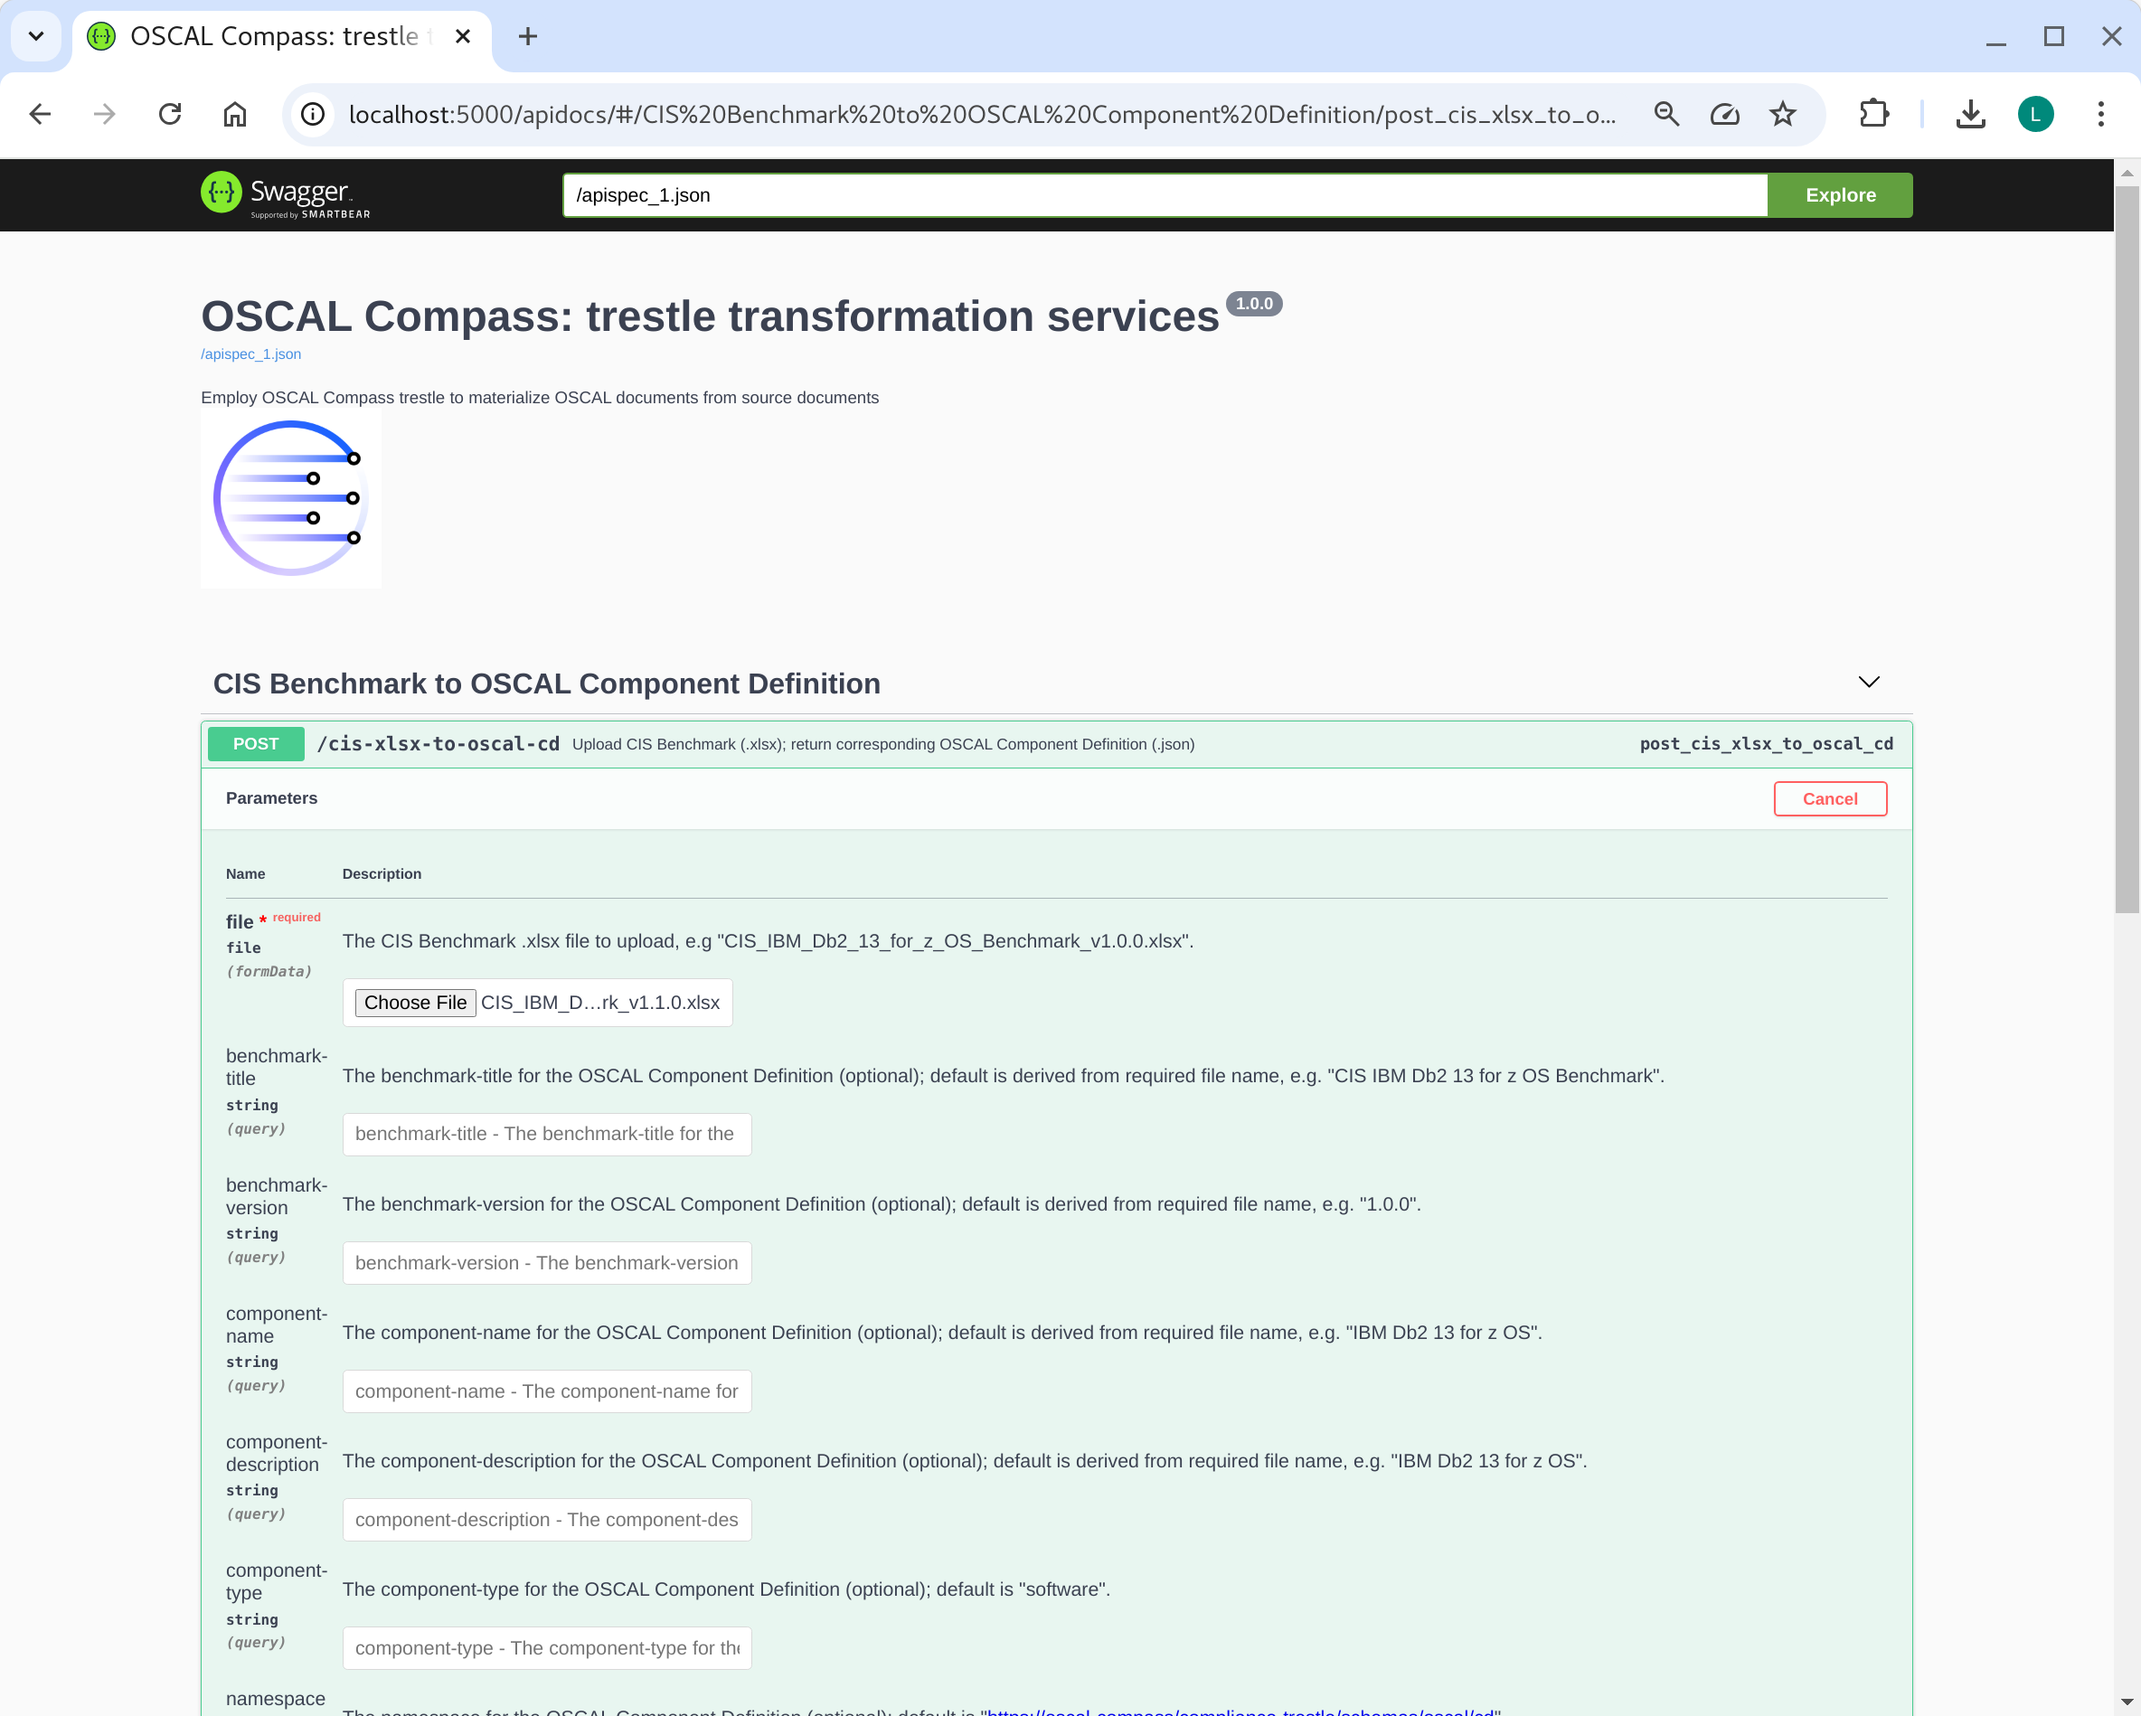
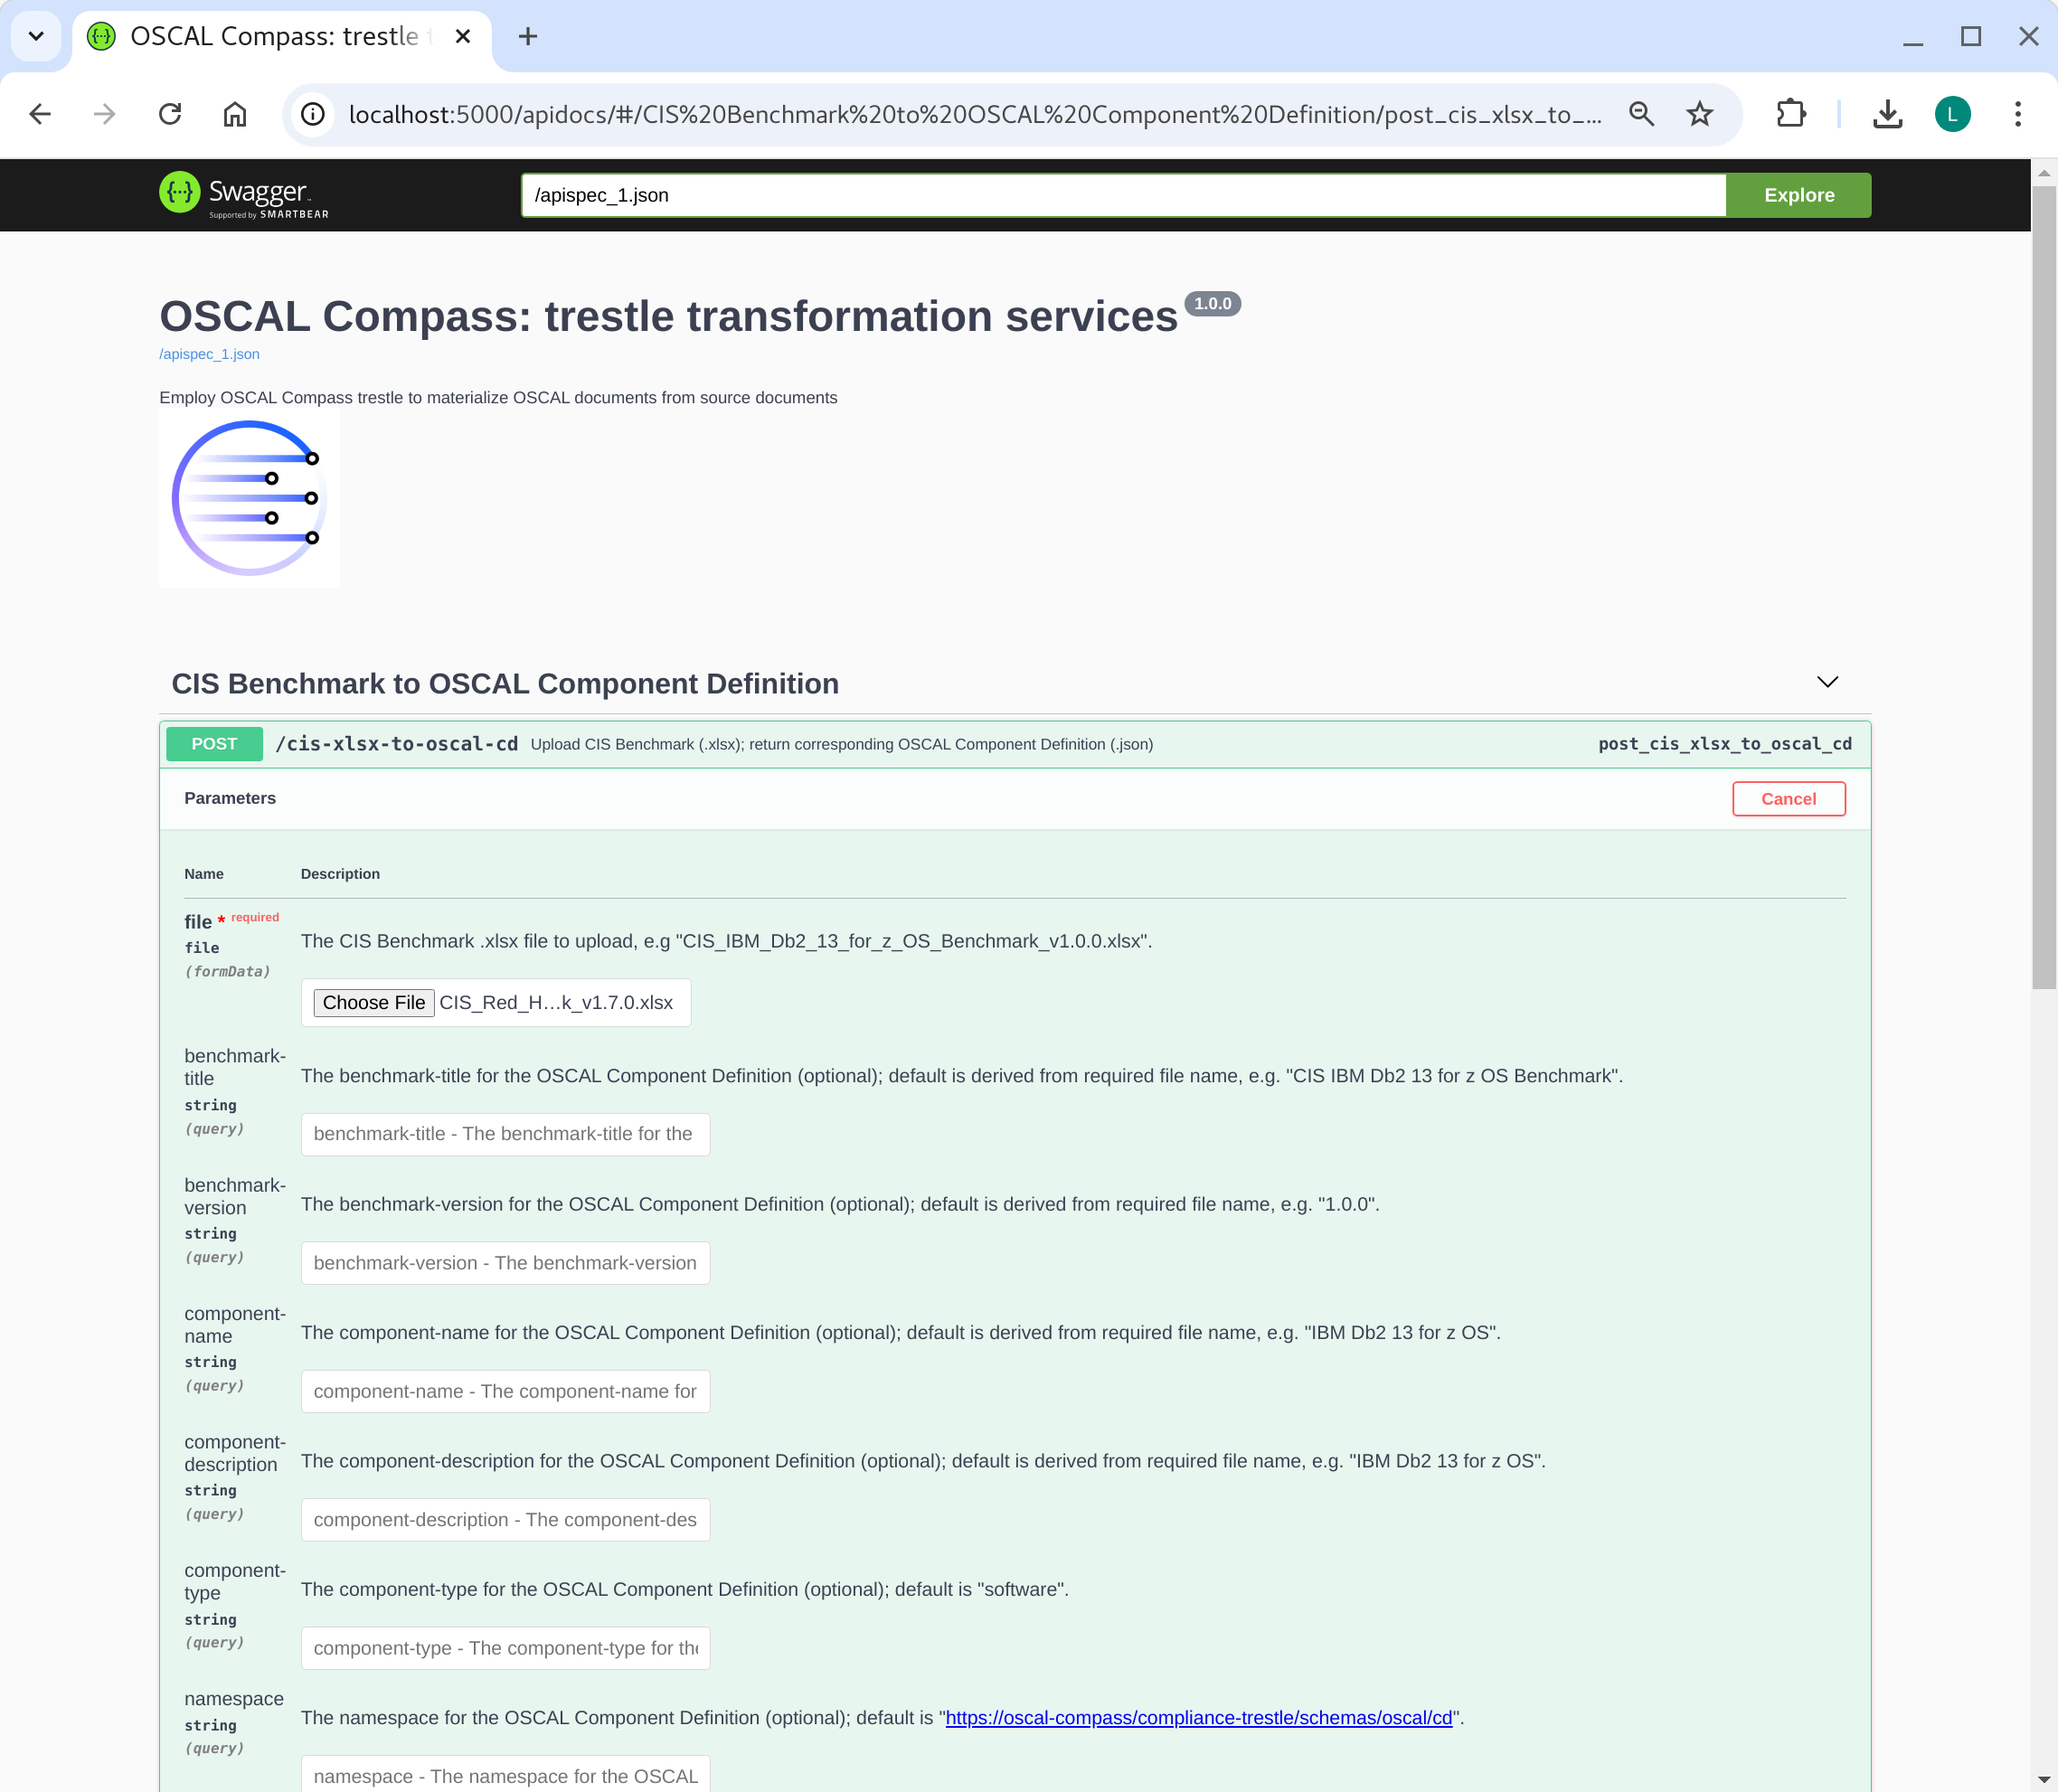
Switch to use OCP

diff --git a/trestle_task_cis_xlsx_to_oscal_cd/README.md b/trestle_task_cis_xlsx_to_oscal_cd/README.md
@@ -45,10 +45,12 @@ In web browser, enter: http://localhost:5000/apidocs/
 - click on POST
 - click on "Try it out"
 - click on "Choose File"
-- navigate to: git/compliance-trestle-demos/CIS_IBM_Db2_11_Benchmark_v1.1.0.xlsx
+- navigate to: git/compliance-trestle-demos/CIS_Red_Hat_OpenShift_Container_Platform_Benchmark_v1.7.0.xlsx
 - click on Execute (blue bar)
 - click on "Download file"
 ```
+
+<p style="color:red;">Note: The sample CIS Benchmark is just a small snippet of the actual CIS Benchmark</p>
 
 <img src="images/swagger.png" height=600 />
 
@@ -76,32 +78,31 @@ This command line demo takes a sample CIS Benchmark (xlsx) and uses the trestle 
 > mkdir trestle-workspace
 > cd trestle-workspace
 > trestle init
-> trestle task cis-xlsx-to-oscal-cd -c  ../cis-xlsx-to-oscal-cd.db2.snippet.config
-input: /tmp/tmp5qpd6r_x/CIS_IBM_Db2_11_Benchmark_v1.1.0.snippet.csv
-output: component-definitions/CIS_IBM_Db2_11_Benchmark_v1.1.0/component-definition.json
+> trestle task cis-xlsx-to-oscal-cd -c  ../cis-xlsx-to-oscal-cd.snippet.config
+input: /tmp/tmp39ynmxp5/CIS_Red_Hat_OpenShift_Container_Platform_Benchmark_v1.7.0.csv
+output: component-definitions/CIS_Red_Hat_OpenShift_Container_Platform_Benchmark_v1.7.0/component-definition.json
 Task: cis-xlsx-to-oscal-cd executed successfully.
 ```
 
 - Viewing the result
 
 ```
-> cat component-definitions/CIS_IBM_Db2_11_Benchmark_v1.1.0/component-definition.json
-
+> cat component-definitions/CIS_Red_Hat_OpenShift_Container_Platform_Benchmark_v1.7.0/component-definition.json 
 {
   "component-definition": {
-    "uuid": "15a43989-22ca-4344-9ca9-e2b74ae1f583",
+    "uuid": "4f1772a7-dcc6-4323-a7a7-725b19dd2a1a",
     "metadata": {
-      "title": "CIS IBM Db2 11 Benchmark",
-      "last-modified": "2025-01-08T14:49:59+00:00",
-      "version": "1.1.0",
+      "title": "CIS Red Hat OpenShift Container Platform Benchmark",
+      "last-modified": "2025-01-28T21:24:02+00:00",
+      "version": "1.7.0",
       "oscal-version": "1.1.2"
     },
     "components": [
       {
-        "uuid": "284c4152-9056-4f49-b455-c25f3f1e8bc9",
+        "uuid": "9f3a08f3-50ca-4885-be7a-26f3643a6d5b",
         "type": "software",
-        "title": "IBM Db2 11",
-        "description": "IBM Db2 11",
+        "title": "Red Hat OpenShift Container Platform",
+        "description": "Red Hat OpenShift Container Platform",
         "props": [
           {
             "name": "Rule_Id",
@@ -112,13 +113,19 @@ Task: cis-xlsx-to-oscal-cd executed successfully.
           {
             "name": "Rule_Description",
             "ns": "https://oscal-compass/compliance-trestle/schemas/oscal/cd",
-            "value": "Periodically, IBM releases updates for its Db2 11 products in the form of modification packs, fix packs, and interim fix packs. All updates are cumulative and contain the contents of the previous updates provided.  It is recommended that you review the available updates for Db2 11 on a regular and frequent basis and, optionally, subscribe for notification of critical Db2 fixes.  **Db2 11.1 specifics**  Modification packs contain new features as well as defect fixes and are indicated by a change in the modification and fix pack numbers in the product identifier (e.g. Db2 11.1.4.5 is modification pack 4 for Db2 11.1). Fix packs contain only defect fixes and are indicated by a change in just the fix pack number in the product identifier (e.g. Db2 11.1.4.5 is fix pack 5 for Db2 11.1). Interim fix packs contain only critical defect fixes (e.g. HIPER and security vulnerabilities) made available since the last modification or fix pack released and are identified by an “iFixNN” suffix, where NN is the number of the interim fix.  **Db2 11.5 specifics**  Modification packs contain new features as well as defect fixes and are indicated by a change in the modification number in the product identifier (e.g. Db2 11.5.4.0 is modification pack 4 for Db2 11.5). Fix packs contain only defect fixes and are indicated by a change in just the fix pack number in the product identifier (e.g. Db2 11.5.4.1 is fix pack 1 for modification 4 of Db2 11.5). Db2 11.5 does not provide Interim fix packs.",
+            "value": "Ensure that the API server pod specification file has permissions of `600` or more restrictive.",
             "remarks": "rule_set_00"
           },
           {
             "name": "Profile",
             "ns": "https://oscal-compass/compliance-trestle/schemas/oscal/cd",
-            "value": "Level 1 - RDBMS",
+            "value": "Level 1",
+            "remarks": "rule_set_00"
+          },
+          {
+            "name": "Section",
+            "ns": "https://oscal-compass/compliance-trestle/schemas/oscal/cd",
+            "value": "1.1",
             "remarks": "rule_set_00"
           },
     ...
